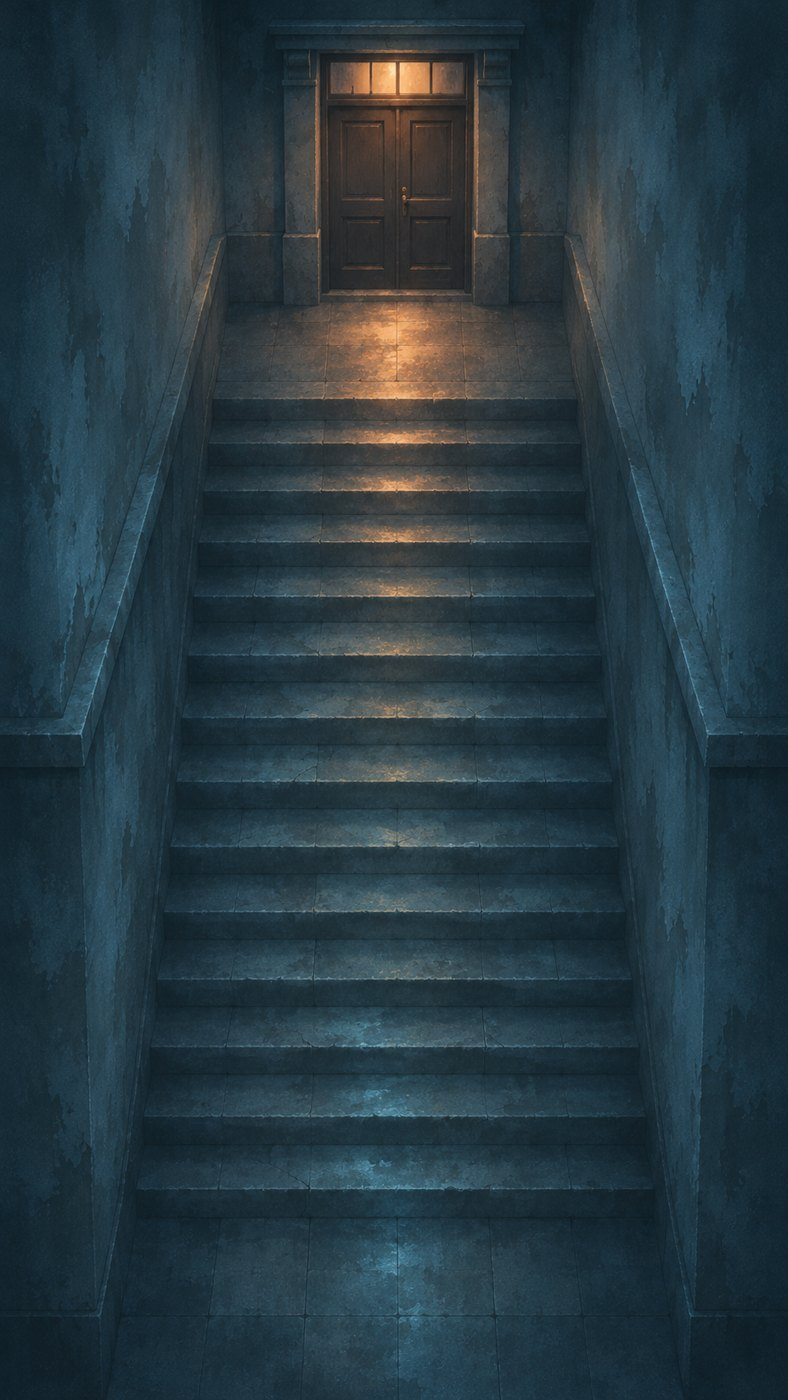
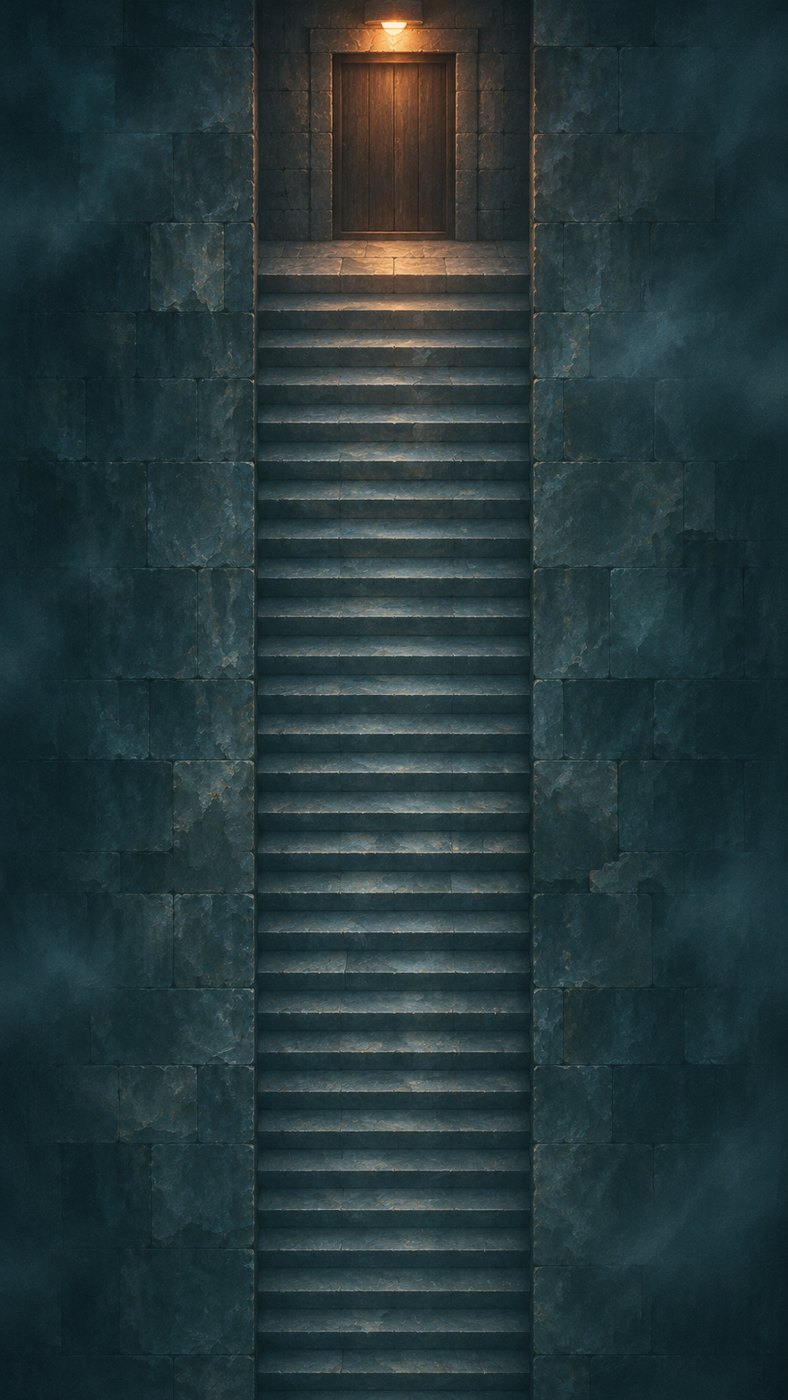
Décors peints, lot 4 : appartement d'Ishara, penthouse d'Izzy, escalier

diff --git a/decors.js b/decors.js
@@ -24,6 +24,26 @@ const paintedDecor = {
     // Les objets peints couvrent toute l'emprise bloquante ; seul leur relief dépasse vers le nord.
     donjon: { hideBorder: true, objects: { 'pilier-pierre': wall => ({ patch: wall.height > wall.width ? 'pierre-longue' : 'pierre-large', rise: 8 }) } },
     run: { hideBorder: true, objects: { pilier: { patch: 'pilier-ocre', rise: 32 }, roc: wall => ({ patch: wall.width > wall.height ? 'rochers-larges' : 'rochers-longs', rise: 0 }) } },
+    // Lot 4 : les trois dernières zones. Les cloisons et la baie sont dans l'image ; les meubles viennent de planches à fond vert.
+    appartement: {
+      hide: ['cloison'],
+      sprites: ['app-canape', 'app-tablebasse', 'app-livres', 'app-table', 'app-comptoir', 'app-cuisine', 'app-lit', 'app-placard', 'app-radiateur', 'app-douche', 'app-lavabo'],
+      objects: {
+        canape: { name: 'app-canape', width: 130 }, tablebasse: { name: 'app-tablebasse', width: 100 }, livres: { name: 'app-livres', width: 52 },
+        table: { name: 'app-table', width: 62 }, comptoir: { name: 'app-comptoir', width: 240 }, cuisine: { name: 'app-cuisine', width: 240 },
+        lit: { name: 'app-lit', height: 140 }, placard: { name: 'app-placard', width: 70 }, radiateur: { name: 'app-radiateur', width: 100 },
+        douche: { name: 'app-douche', width: 60 }, lavabo: { name: 'app-lavabo', width: 56 }
+      }
+    },
+    penthouse: {
+      hide: ['baie', 'cloison-i'],
+      sprites: ['pent-canape-a', 'pent-canape-b', 'pent-ilot', 'pent-marbre'],
+      objects: {
+        'cuisine-i': { name: 'pent-ilot', width: 150 }, marbre: { name: 'pent-marbre', width: 80 },
+        'canape-i': wall => ({ name: wall.y < -100 ? 'pent-canape-a' : 'pent-canape-b', width: 200 })
+      }
+    },
+    escalier: {},
     antre: { hideBorder: true, sprites: ['amas-cristal'], objects: { 'amas-cristal': { name: 'amas-cristal', patch: 'cristaux', rise: 20 } } },
     // Les objets dépassent leur rectangle de collision (vue en trois quarts) : largeur ou hauteur voulue, en unités du jeu.
     square: { hide: ['immeuble-sq'], sprites: ['banc', 'arbre-square', 'lampadaire'], objects: { banc: { name: 'banc', width: 96 }, arbre: { name: 'arbre-square', height: 118 }, lampadaire: { name: 'lampadaire', height: 92 } } },

diff --git a/index.html b/index.html
@@ -233,7 +233,7 @@
   <script src="render-appart.js?v=44" defer></script>
   <script src="render-antre.js?v=42" defer></script>
   <script src="lighting.js?v=75" defer></script>
-  <script src="decors.js?v=5" defer></script>
+  <script src="decors.js?v=6" defer></script>
   <script src="render.js?v=79" defer></script>
   <script src="combat.js?v=56" defer></script>
   <script src="input.js?v=62" defer></script>

diff --git a/docs/art/outils/decors.py b/docs/art/outils/decors.py
@@ -29,6 +29,10 @@ ZONES = {
     'donjon': ((-480, -336, 960, 672), None),
     'run': ((-470, -300, 940, 720), None),
     'antre': ((-480, -400, 960, 800), None),
+    # Lot 4 : les trois dernières zones.
+    'appartement': ((-320, -300, 640, 600), None),
+    'penthouse': ((-330, -230, 660, 470), None),
+    'escalier': ((-90, -640, 180, 900), None),
 }
 
 def background(name, room, anchor):
@@ -119,4 +123,6 @@ if __name__ == '__main__':
     sheet('square', ['banc', 'arbre-square', 'lampadaire'], single=True)
     sheet('flon', ['table-a', 'table-b', 'table-c', 'bar'], single=True, gap=40)
     sheet('impasse', ['impasse-poubelle', 'impasse-poubelle-metal', 'impasse-velo'], single=True)
+    sheet('appartement', ['app-canape', 'app-tablebasse', 'app-livres', 'app-table', 'app-comptoir', 'app-cuisine', 'app-lit', 'app-placard', 'app-radiateur', 'app-douche', 'app-lavabo'])
+    sheet('penthouse', ['pent-canape-b', 'pent-ilot', 'pent-canape-a', 'pent-marbre'], single=True)
     sheet('exterieur', ['benne', 'caisses', 'poubelles', 'poubelles-b', 'scooter'])

diff --git a/docs/JOURNAL.md b/docs/JOURNAL.md
@@ -114,6 +114,7 @@
 | 17x | décisions de Jordan du 5 novembre 2026, à valider en situation | **Expressions de l'œil de Tiamat** attribuées aux 57 répliques : amusée (12) = n° 3, 6, 9, 14, 16, 17, 28, 30, 33, 38, 39, 41 de la liste de relecture ; froide (17) = 4, 10, 11, 19, 21, 22, 24, 26, 31, 35, 43, 44, 47, 48, 49, 51, 57 ; neutre pour les 28 autres. Jordan a validé les répliques 1 à 29, a demandé « amusée » pour la 30, et laisse les 36 à 57 « à voir en situation ». Syntaxe `Tiamat[amusee] (voix intérieure) : « … »`. |
 | 17y | mise à jour documentaire du 5 novembre 2026 | `PROJECT.md`, « État actuel » : ajout de l'interface (Codex), de Tiamat (œil en image, trois expressions, « par Yarden »), du texte progressif et de la date ; les douze musiques sont déjà décrites. Rien d'autre n'a été modifié. |
 | 17z | implémentée, à valider sur Android | **Décors peints, lot 2** : impasse (façade ancrée sur les blocs, murs d'enceinte masqués), cour, comptoir de Rémi (murs latéraux recalés sur l'image : deux bandes de 46), 4B, préau (colonnes recalées aux bords), hall d'Ouchy, salle de pierre (donjon), salle ocre (run), antre. Objets peints de l'impasse (poubelle métallique, vélo). Restent dessinés en code par-dessus les fonds : bureau du 4B, banc du préau, piliers du donjon, rochers et piliers de la salle ocre, cristaux de l'antre (absents des images : à voir avec Codex). Pas branchés : escalier, appartement d'Ishara, penthouse. `decors.js?v=4`. Cinquante et un scénarios. |
+| 18a | implémentée, à valider sur Android | **Décors peints, lot 4** : appartement d'Ishara (cloisons dans l'image, onze meubles peints), penthouse d'Izzy (baie et cloisons dans l'image, îlot, deux canapés, table de marbre) et escalier (bande centrale de l'image). Les collisions n'ont pas bougé : l'image épouse la disposition du jeu. Toutes les zones du jeu ont maintenant un décor peint. `decors.js?v=6`. Cinquante-deux scénarios. |
 | 17aa | 5 novembre 2026, retouches sur branche, à relire et à valider sur Android | **Raccords des décors après le lot 2** : seize obstacles reçoivent des objets peints (bureau du 4B, banc du préau, deux piliers de pierre, quatre massifs et six piliers ocre, deux amas de cristal). Deux PNG transparents, environ 2,5 Mio ; lecture directe de leurs rectangles dans le Canvas, ombres atténuées. Bordures en code masquées pour ces cinq lieux quand leur fond est chargé. Géométrie, départs et portes identiques à la PR #74 ; seul le type visuel des pierres et cristaux est ajouté. Secours en code conservé si un objet ou le fond manque. `zones.js?v=79`, `decors.js?v=5`. Rapport et vingt captures avant/après dans `docs/RACCORDS-DECORS.md` et `docs/decors/`. 52 scénarios réussis ; Chromium portrait 390 × 844 pour les cinq lieux, paysage 844 × 390 et images manquantes pour la salle ocre, sans erreur JS. Aucun essai Android réel. Escalier, appartement, penthouse et bloc narratif 2 restent séparés. |
 | 17 | à lancer | Bilan de la phase 2 : fluidité mesurée sur téléphone, poids des images, décision sur Godot. Soumis à validation de Jordan. |
 

diff --git a/PROJECT.md b/PROJECT.md
@@ -6,7 +6,7 @@
 ## État actuel (5 novembre 2026)
 
 - **Le jeu** : RPG narratif en Canvas 2D (HTML, JavaScript, GitHub Pages), jouable sur téléphone. Chapitres 1 à 6 jouables d'un bout à l'autre, mode libre (failles au hasard) après la fin, sac et crédits, points de VIT, sauvegarde par points de passage dans le navigateur. Combat en temps réel. Texte des dialogues qui s'écrit progressivement (vitesse réglable).
-- **Décors** : dessinés en code par défaut, remplacés par des décors peints (GPT) quand l'image existe : rue du quartier (nuit et jour), Sous-gare, Marterey, ruelle, square, Flon, impasse, cour, comptoir de Rémi, 4B, préau, hall d'Ouchy, salle de pierre, salle ocre, antre (`decors.js`, `assets/decors/`). Restent en dessin code : escalier, appartement d'Ishara, penthouse (images à recaler avec Codex).
+- **Décors** : dessinés en code par défaut, remplacés par des décors peints (GPT) quand l'image existe : rue du quartier (nuit et jour), Sous-gare, Marterey, ruelle, square, Flon, impasse, cour, comptoir de Rémi, 4B, préau, hall d'Ouchy, salle de pierre, salle ocre, antre (`decors.js`, `assets/decors/`). Toutes les zones ont maintenant un décor peint, y compris l'escalier, l'appartement d'Ishara et le penthouse d'Izzy (lot 4) ; le dessin en code ne sert plus que de secours.
 - **Objets des décors** : bureau du 4B, banc du préau, deux piliers du donjon, quatre massifs et six piliers ocre, deux amas de cristal peints par-dessus les fonds, sans déplacement des collisions. Rapport avant/après : `docs/RACCORDS-DECORS.md`.
 - **Interface** : habillage « manhwa » de Codex (`polish.css`, polices Barlow dans `assets/fonts/`) : bulles de dialogue avec une couleur de lecture par personnage, écran titre avec le décor de la rue, menus harmonisés, dialogue à droite du terrain en paysage. Détail dans `docs/POLISH-INTERFACE.md`.
 - **Tiamat** : voix intérieure en violet avec un œil en image (Higgsfield), trois expressions (`tiamat-neutre`, `tiamat-amusee`, `tiamat-froide`) choisies par réplique avec `Tiamat[amusee] (voix intérieure) : « … »` ; étiquette « TIAMAT, PAR YARDEN » pour la seule scène où elle parle à voix haute (chez Félix). Attribution des 57 répliques décidée avec Jordan (`docs/JOURNAL.md`, ligne 17x), les répliques 36 à 57 sont « à voir en situation ». L'œil dessiné en code reste en secours.

diff --git a/docs/COMMANDES-DECORS.md b/docs/COMMANDES-DECORS.md
@@ -70,7 +70,7 @@ Les meubles qui comptent pour le jeu (zones à examiner) seront posés par le je
 - Un même lieu jour et nuit = deux fichiers (`-jour`). Le jeu choisira selon la scène ; pour l'instant seule la nuit du quartier est branchée.
 - Rien n'est branché tant que Jordan n'a pas validé le rendu. L'ancien dessin en code reste en secours.
 
-## 7. Lot 4 : appartement d'Ishara, penthouse d'Izzy, escalier (5 novembre 2026)
+## 7. Lot 4 : appartement d'Ishara, penthouse d'Izzy, escalier (5 novembre 2026) : livré et branché
 
 Les trois dernières zones encore dessinées en code. Décor sans meubles, meubles sur une planche à fond vert (même principe que la ruelle). Les mesures sont celles du jeu (`zones.js`) : l'image doit épouser les collisions, sans rien déplacer. Les pourcentages sont ceux du rectangle de la zone.
 
